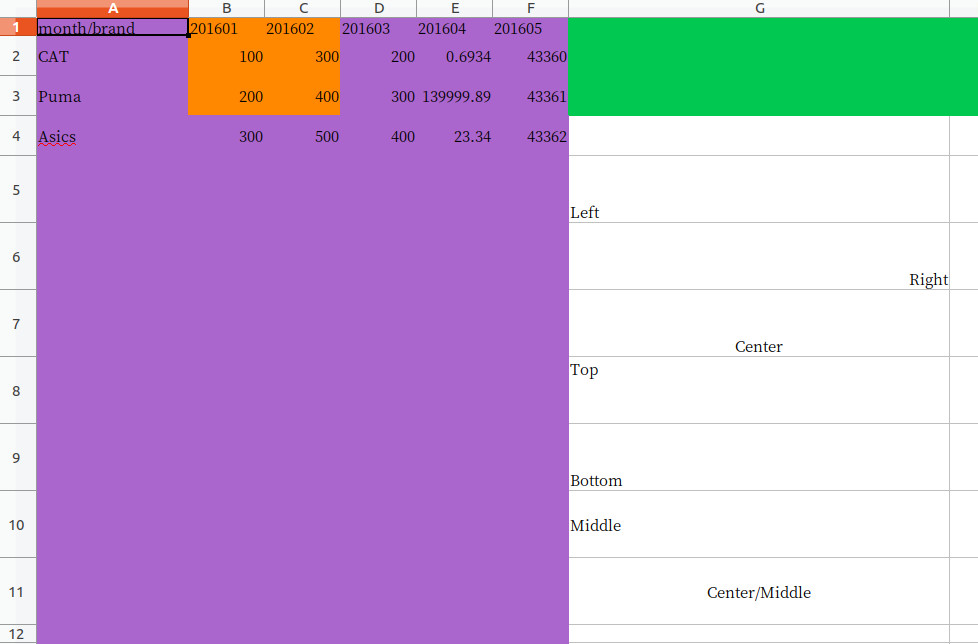
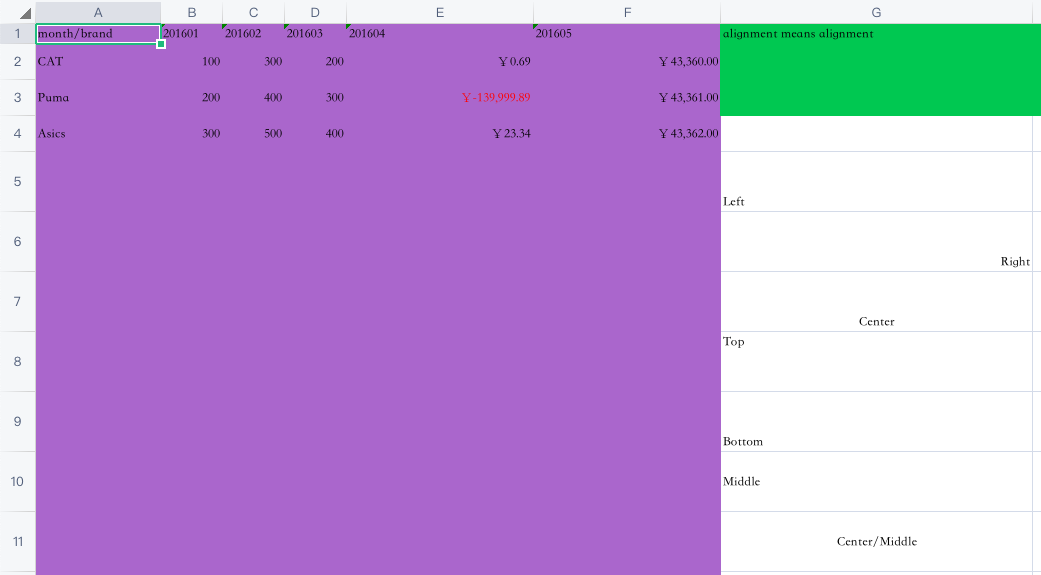
Format Code

diff --git a/README.md b/README.md
@@ -75,7 +75,12 @@ Please view [the Racket docs](https://docs.racket-lang.org/simple-xlsx/index.htm
   (send xlsx add-data-sheet-cell-style! #:sheet_name "DataSheetWithStyle2" #:cell_range "G9" #:style '( (verticalAlign . bottom) ))
   (send xlsx add-data-sheet-cell-style! #:sheet_name "DataSheetWithStyle2" #:cell_range "G10" #:style '( (verticalAlign . middle) ))
   (send xlsx add-data-sheet-cell-style! #:sheet_name "DataSheetWithStyle2" #:cell_range "G11"
-        #:style '( (horizontalAlign . center) (verticalAlign . middle) ))
+        #:style '( (horizontalAlign . center) (verticalAlign . middle)
+  ))
+
+  (send xlsx set-data-sheet-col-width! #:sheet_name "DataSheetWithStyle2" #:col_range "E-F" #:width 30)
+  (send xlsx add-data-sheet-cell-style! #:sheet_name "DataSheetWithStyle2" #:cell_range "G1" #:style '((formatCode . "@__&quot;means&quot;__@")))
+  (send xlsx add-data-sheet-col-style! #:sheet_name "DataSheetWithStyle2" #:col_range "E-F" #:style '((formatCode . "￥#,##0.00;[Red]￥-#,##0.00")))
 
   (send xlsx add-chart-sheet #:sheet_name "LineChart1" #:topic "Horizontal Data" #:x_topic "Kg")
   (send xlsx set-chart-x-data! #:sheet_name "LineChart1" #:data_sheet_name "DataSheet" #:data_range "B1-D1")
